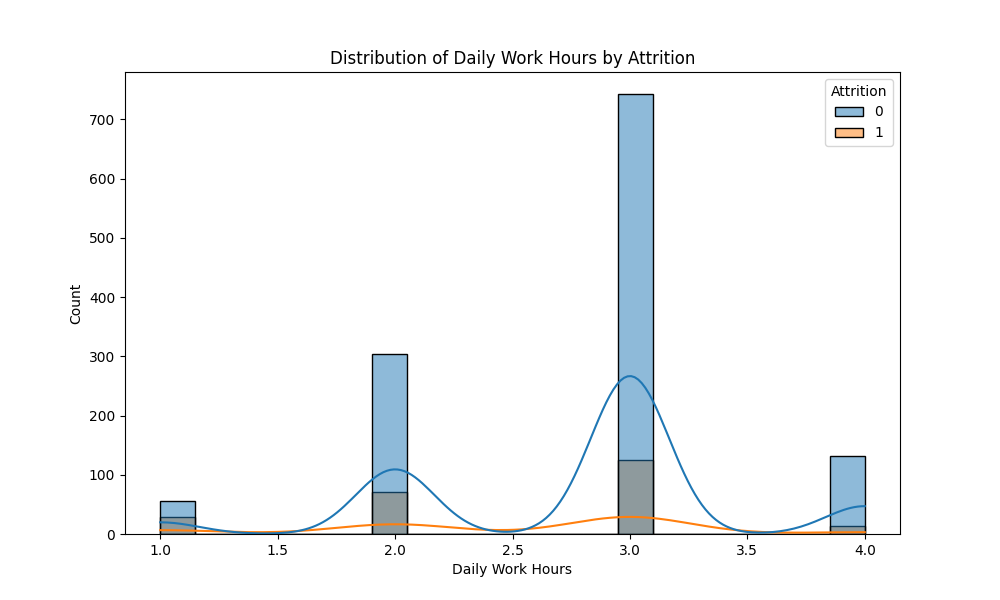
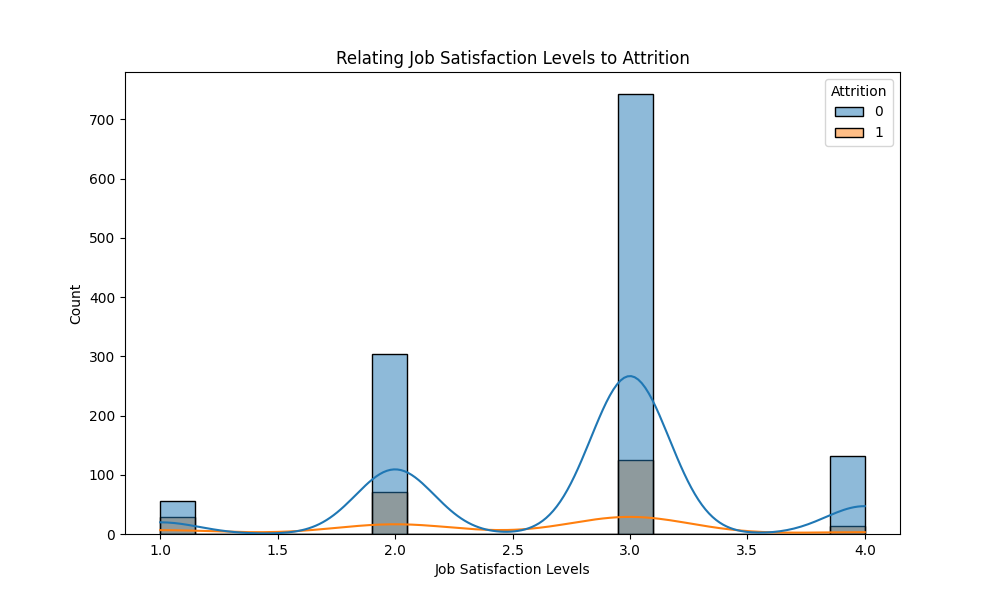
Upadting

Changed region(s): [[0.31, 0.09, 0.713, 0.12], [0.434, 0.93, 0.589, 0.96]]

diff --git a/README.md b/README.md
@@ -98,6 +98,7 @@ To answer this question, I first trained a model called Random Forrest Classifie
 #### Future Work
 To use the model in real time, I will write a CLI that asks the user for an employees attributes (the 10 most important ones shown in graph above). The model will then let the user know whether this employee is likely to depart, alongside the accuracy level.
 ### What is the distribution of working hours for employees who have left the company (attrition = 'Yes') compared to those who have stayed (attrition = 'No')?
+As seen on the graph below, the higher the satisfaction level of an employ, the lesser the chance for them to experience attrition. the graph also shows the number of all employees at a given Job satisfaction level. 
 ![exp3 image](./graph/exp3.png)
 
 
